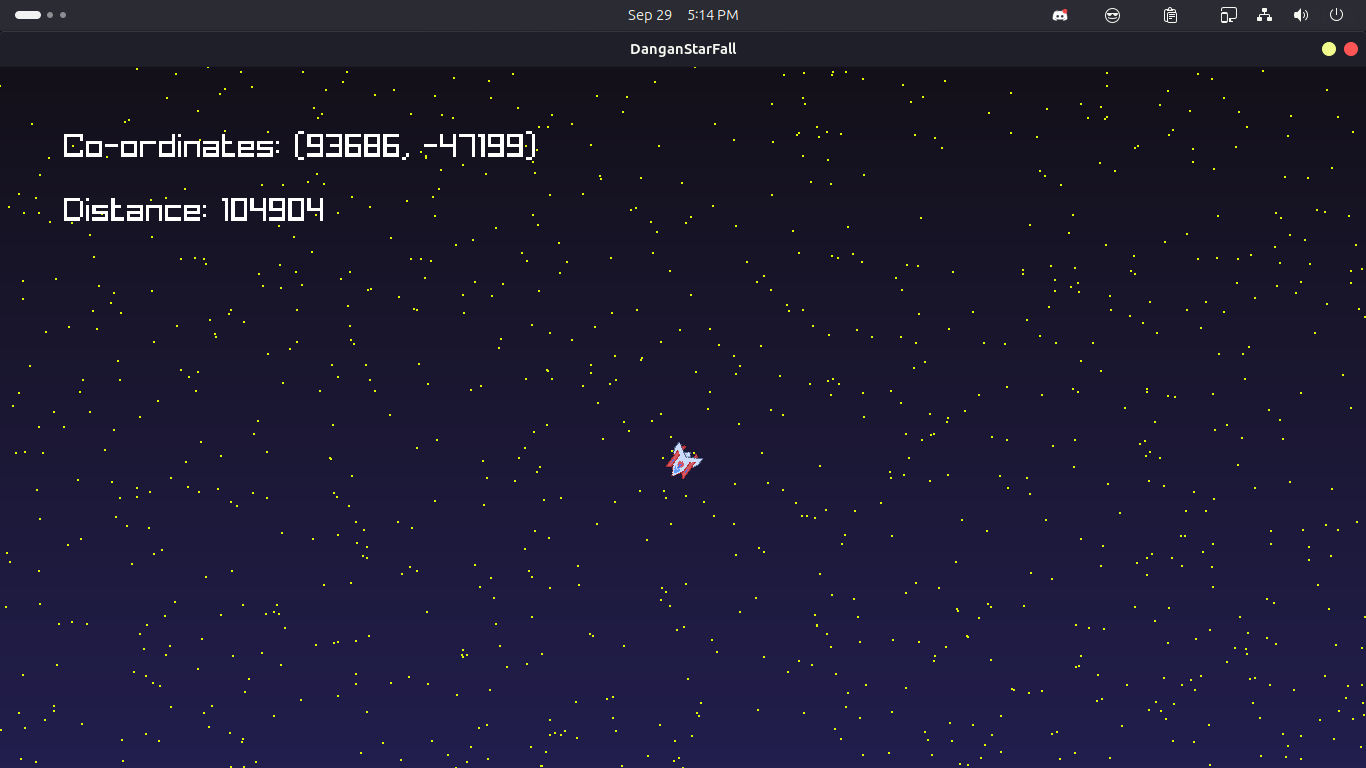
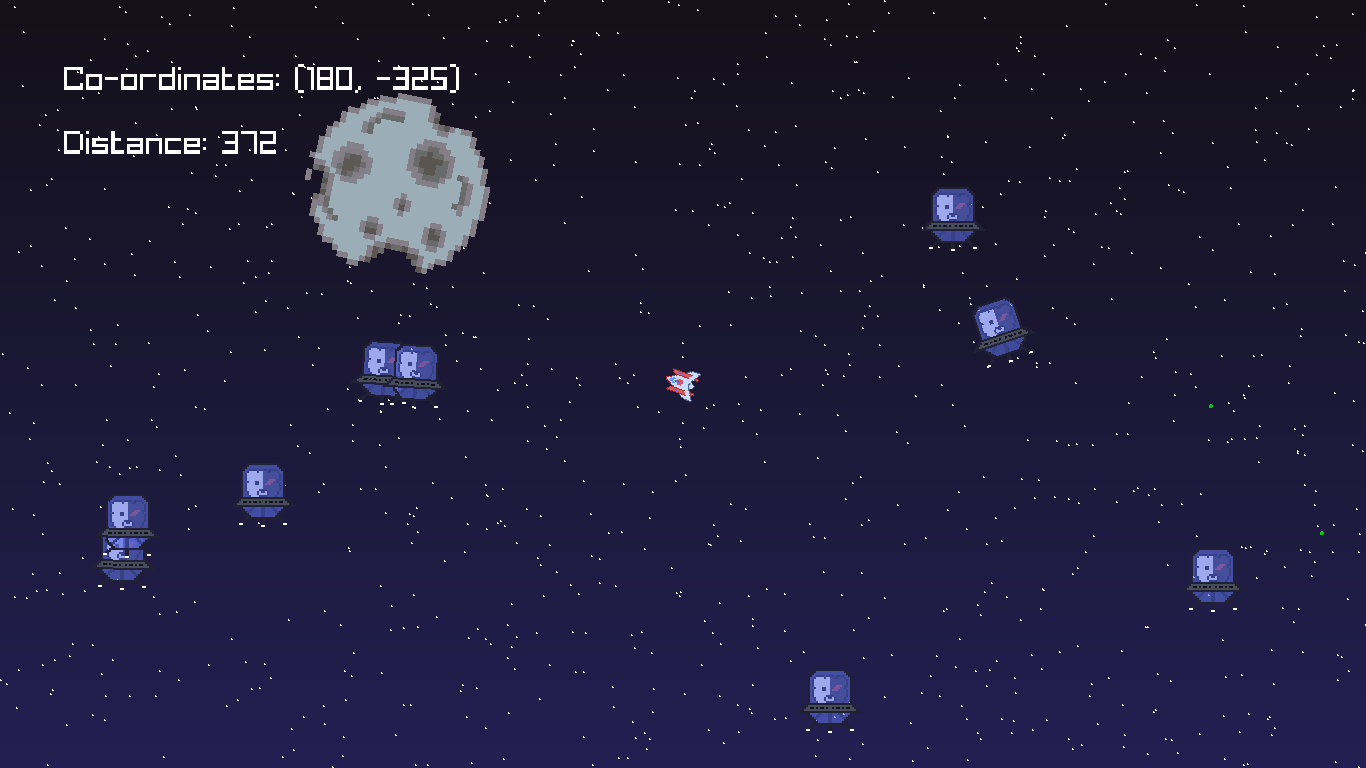
Basic no AI enemies introduced whic can be shot with the bullets to be destroyed.

diff --git a/Systems/index.hpp b/Systems/index.hpp
@@ -6,7 +6,7 @@
 #include <raylib.h>
 #include <vector>
 
-enum class CollisionTypes : cpCollisionType { None, Player, Bullet, Asteroid };
+enum class CollisionTypes : cpCollisionType { None, Player, Bullet, Asteroid, Enemy };
 
 namespace Asteroids {
 extern std::vector<std::unique_ptr<Frax::Rect>> list;
@@ -29,6 +29,13 @@ void Maintain(Camera2D &);
 void Draw();
 } // namespace Stars
 
+namespace Enemies {
+extern std::vector<Frax::Rect*> list;
+void Spawn(Camera2D &, cpSpace *);
+void Maintain(Sound*);
+void Draw();
+}
+
 namespace Discord {
 extern DiscordRichPresence rpc;
 void Init();
@@ -37,3 +44,4 @@ void Close();
 } // namespace Discord
 
 cpBool bulletAsteroidBegin(cpArbiter *, cpSpace *, void *data);
+cpBool bulletEnemyBegin(cpArbiter *, cpSpace *, void *data);
